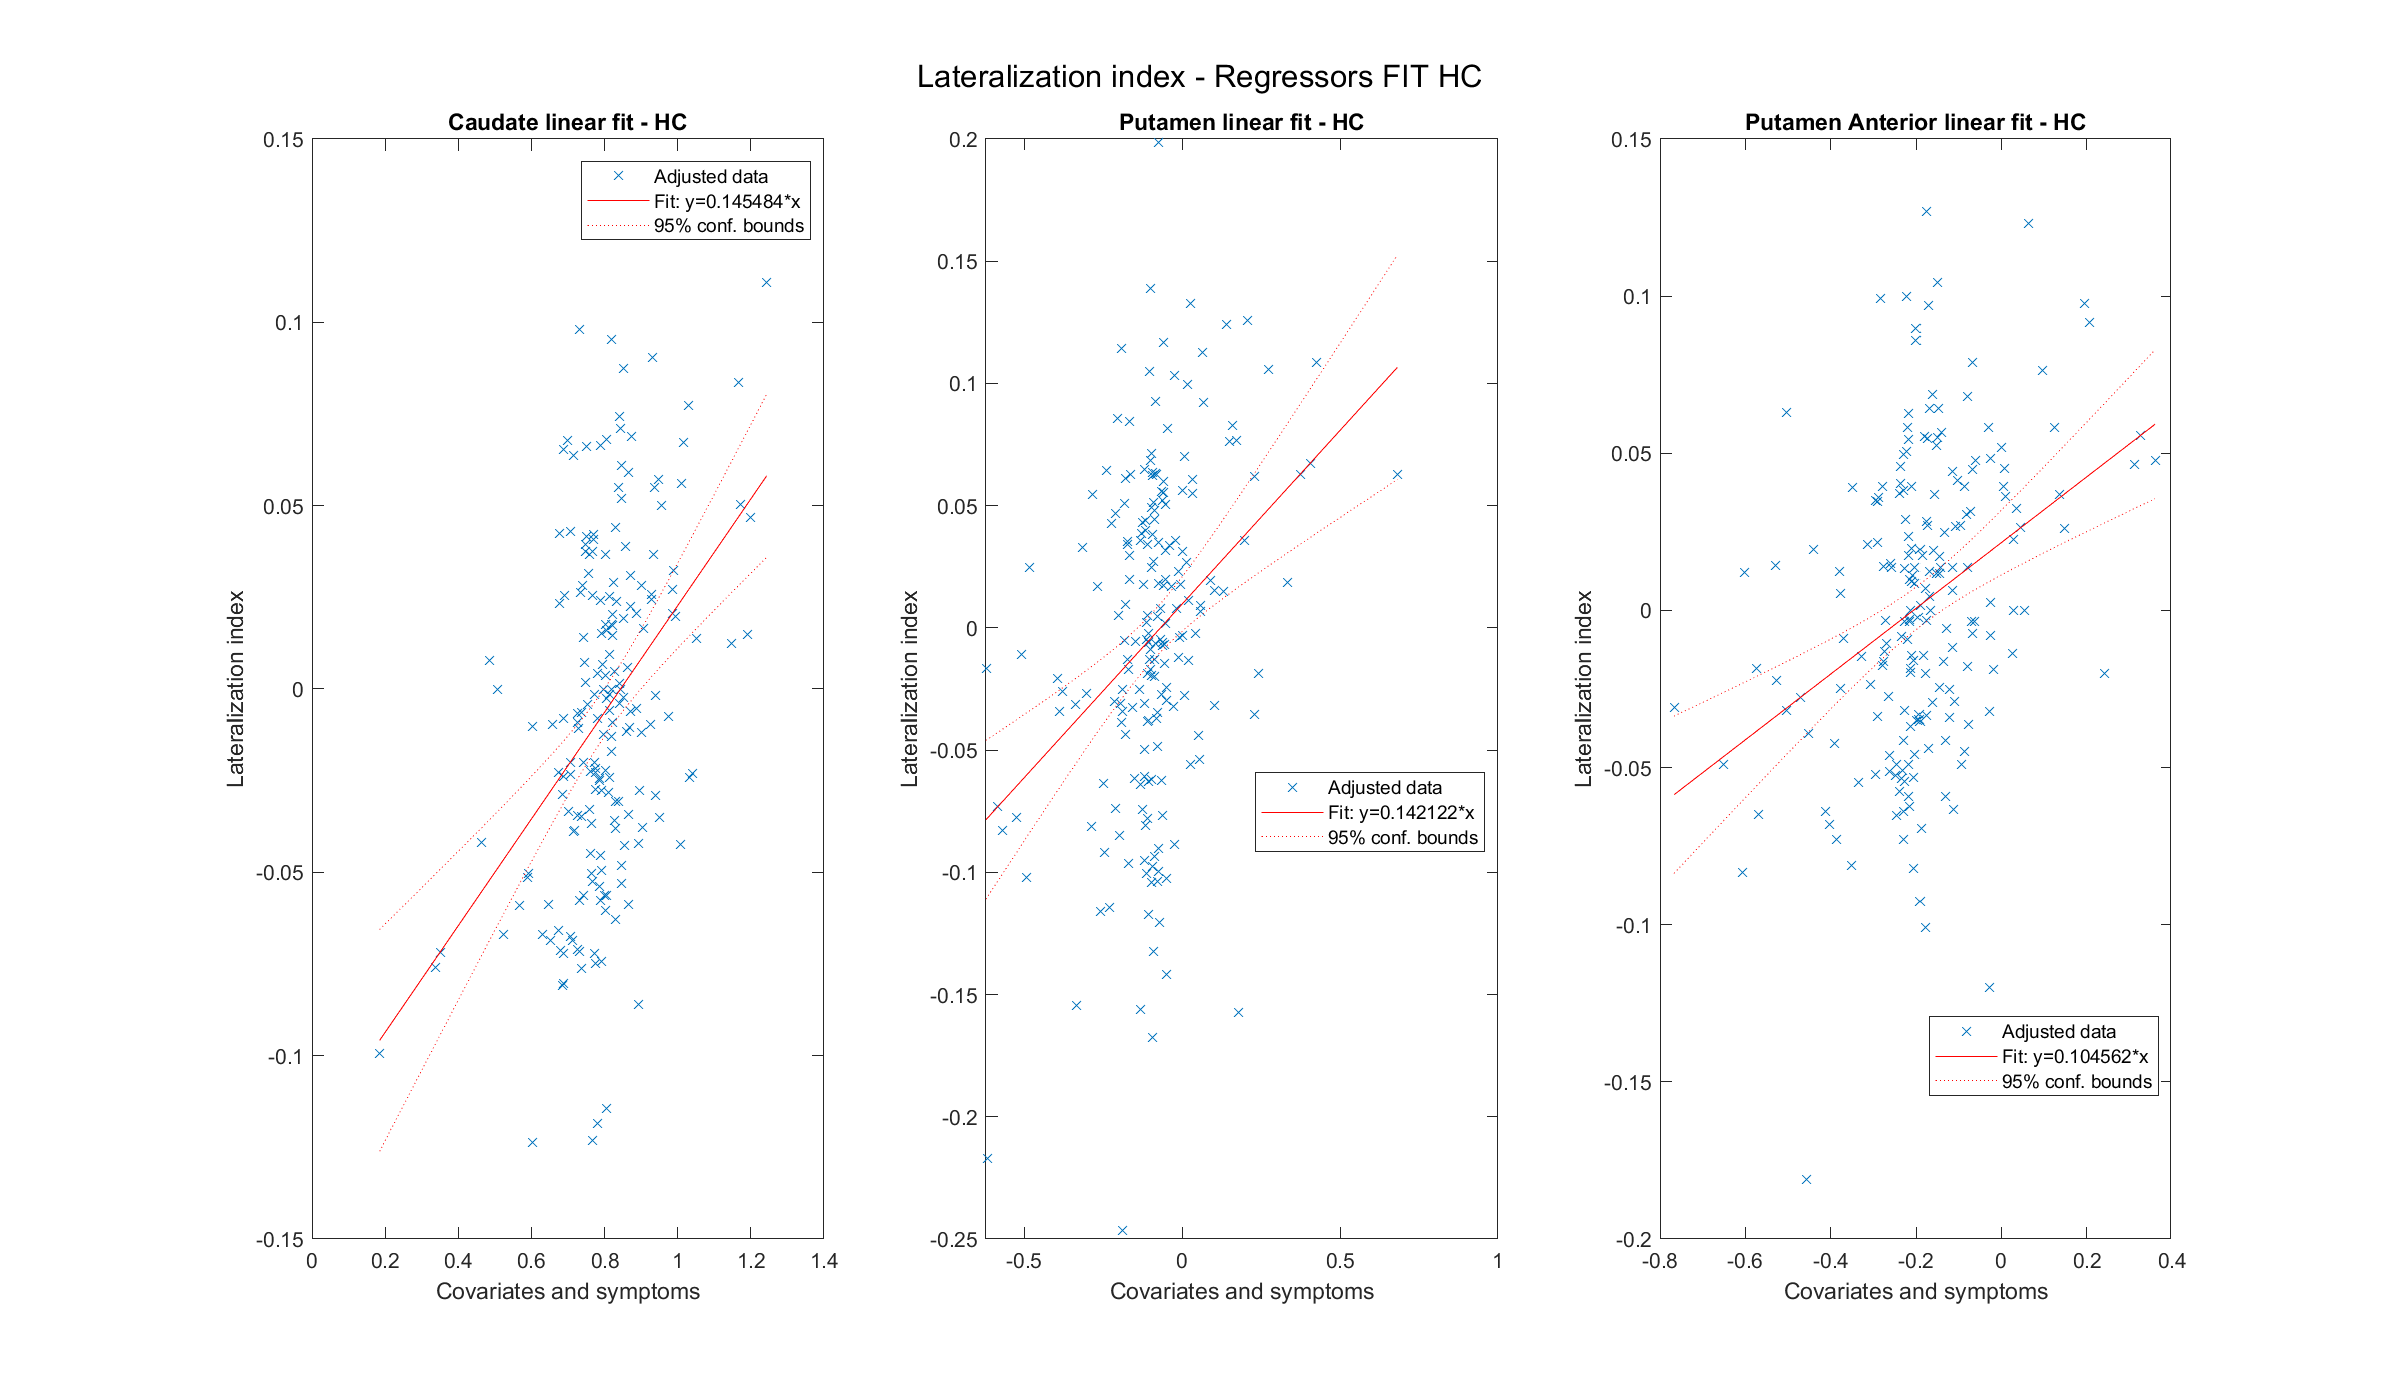
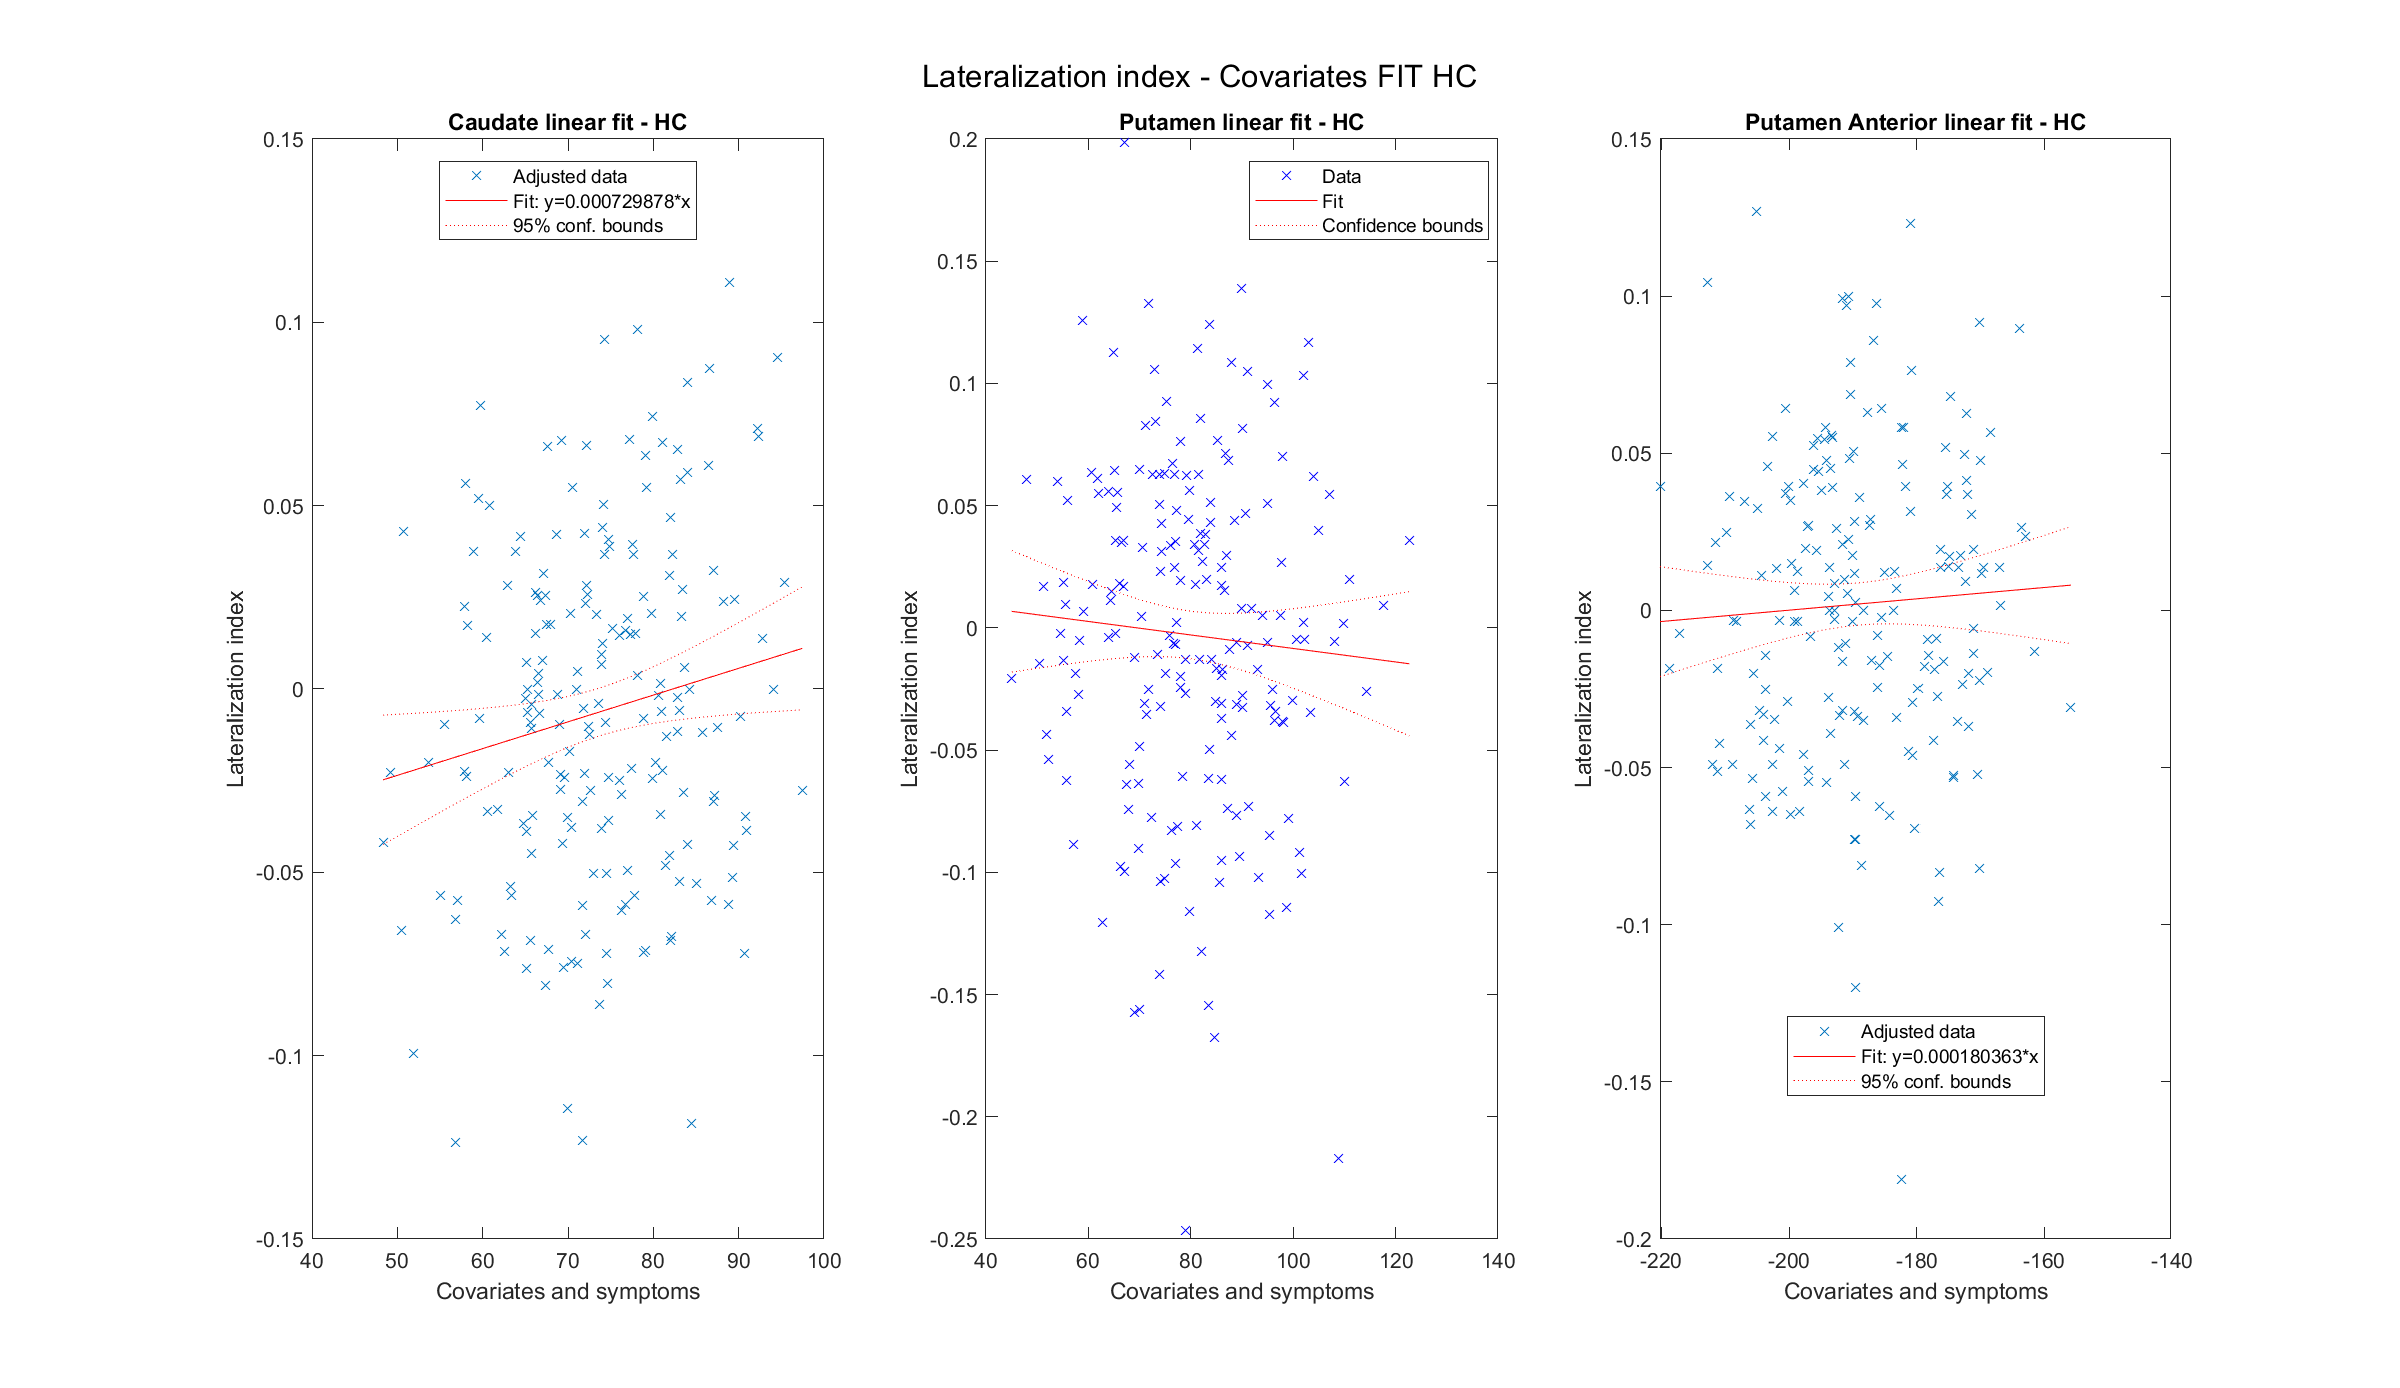
solo covariates per hc

diff --git a/hm_biomarkers_new_version.m b/hm_biomarkers_new_version.m
@@ -751,32 +751,32 @@ figure(25)
 set(gcf, 'Position', get(0, 'Screensize'));
 
 subplot(131)
-model_caud_hc = fitlm(regressors_hc_array.CAUDATE,NOT_ABS.LATERALIZATION_coeff.CAUDATE.HC);
+model_caud_hc = fitlm(covariates_hc_array.CAUDATE,NOT_ABS.LATERALIZATION_coeff.CAUDATE.HC);
 plot(model_caud_hc)
 % xlim([-0.05 0.05])
 % ylim([-0.3 0.2])
-xlabel('Covariates and symptoms')
+xlabel('Covariates')
 ylabel('Lateralization index')
 title('Caudate linear fit - HC')
 
 subplot(132)
-model_put_hc = fitlm(regressors_hc_array.PUTAMEN,NOT_ABS.LATERALIZATION_coeff.PUTAMEN.HC);
+model_put_hc = fitlm(covariates_hc_array.PUTAMEN,NOT_ABS.LATERALIZATION_coeff.PUTAMEN.HC);
 plot(model_put_hc)
 % xlim([-0.05 0.05])
 % ylim([-0.3 0.2])
-xlabel('Covariates and symptoms')
+xlabel('Covariates')
 ylabel('Lateralization index')
 title('Putamen linear fit - HC')
 
 subplot(133)
-model_put_ant_hc = fitlm(regressors_hc_array.PUTAMEN_ANT,NOT_ABS.LATERALIZATION_coeff.PUTAMEN_ANT.HC);
+model_put_ant_hc = fitlm(covariates_hc_array.PUTAMEN_ANT,NOT_ABS.LATERALIZATION_coeff.PUTAMEN_ANT.HC);
 plot(model_put_ant_hc)
 % xlim([-0.05 0.05])
 % ylim([-0.3 0.2])
-xlabel('Covariates and symptoms')
+xlabel('Covariates')
 ylabel('Lateralization index')
 title('Putamen Anterior linear fit - HC')
-sgtitle('Lateralization index - Regressors FIT HC')
+sgtitle('Lateralization index - Covariates FIT HC')
 
 
 saveas(figure(25), "fit_covariates_hc.png", "png")
